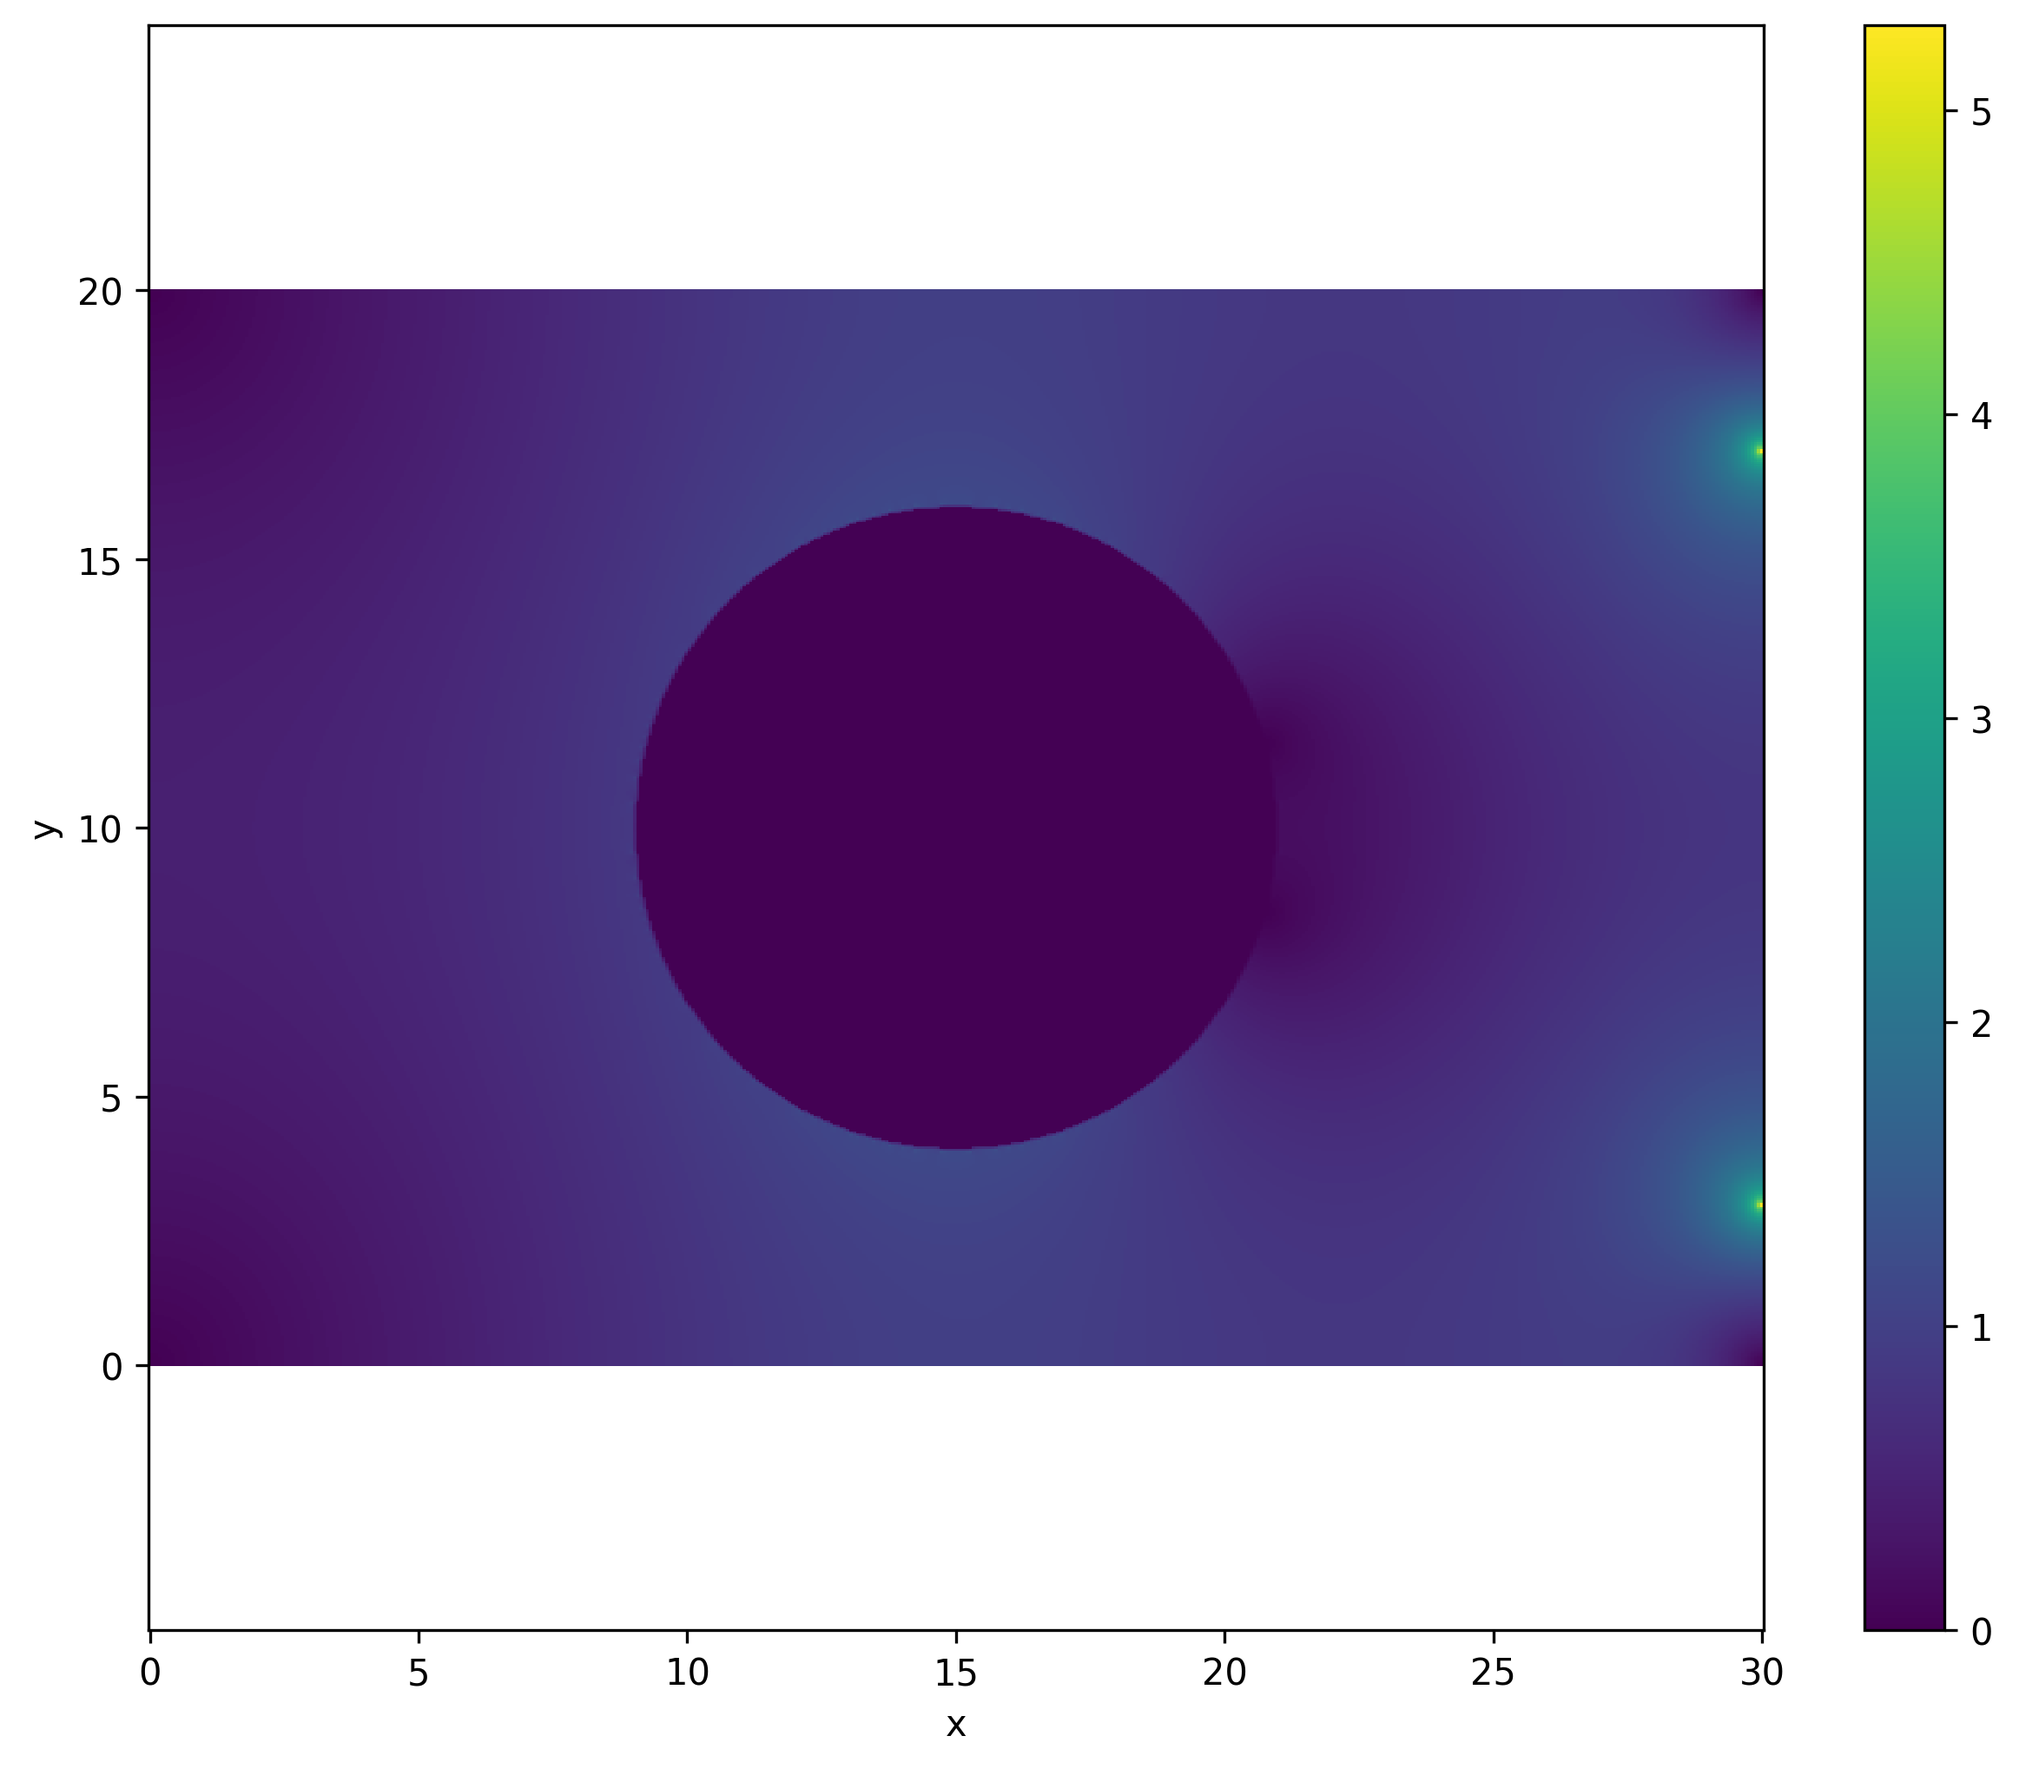
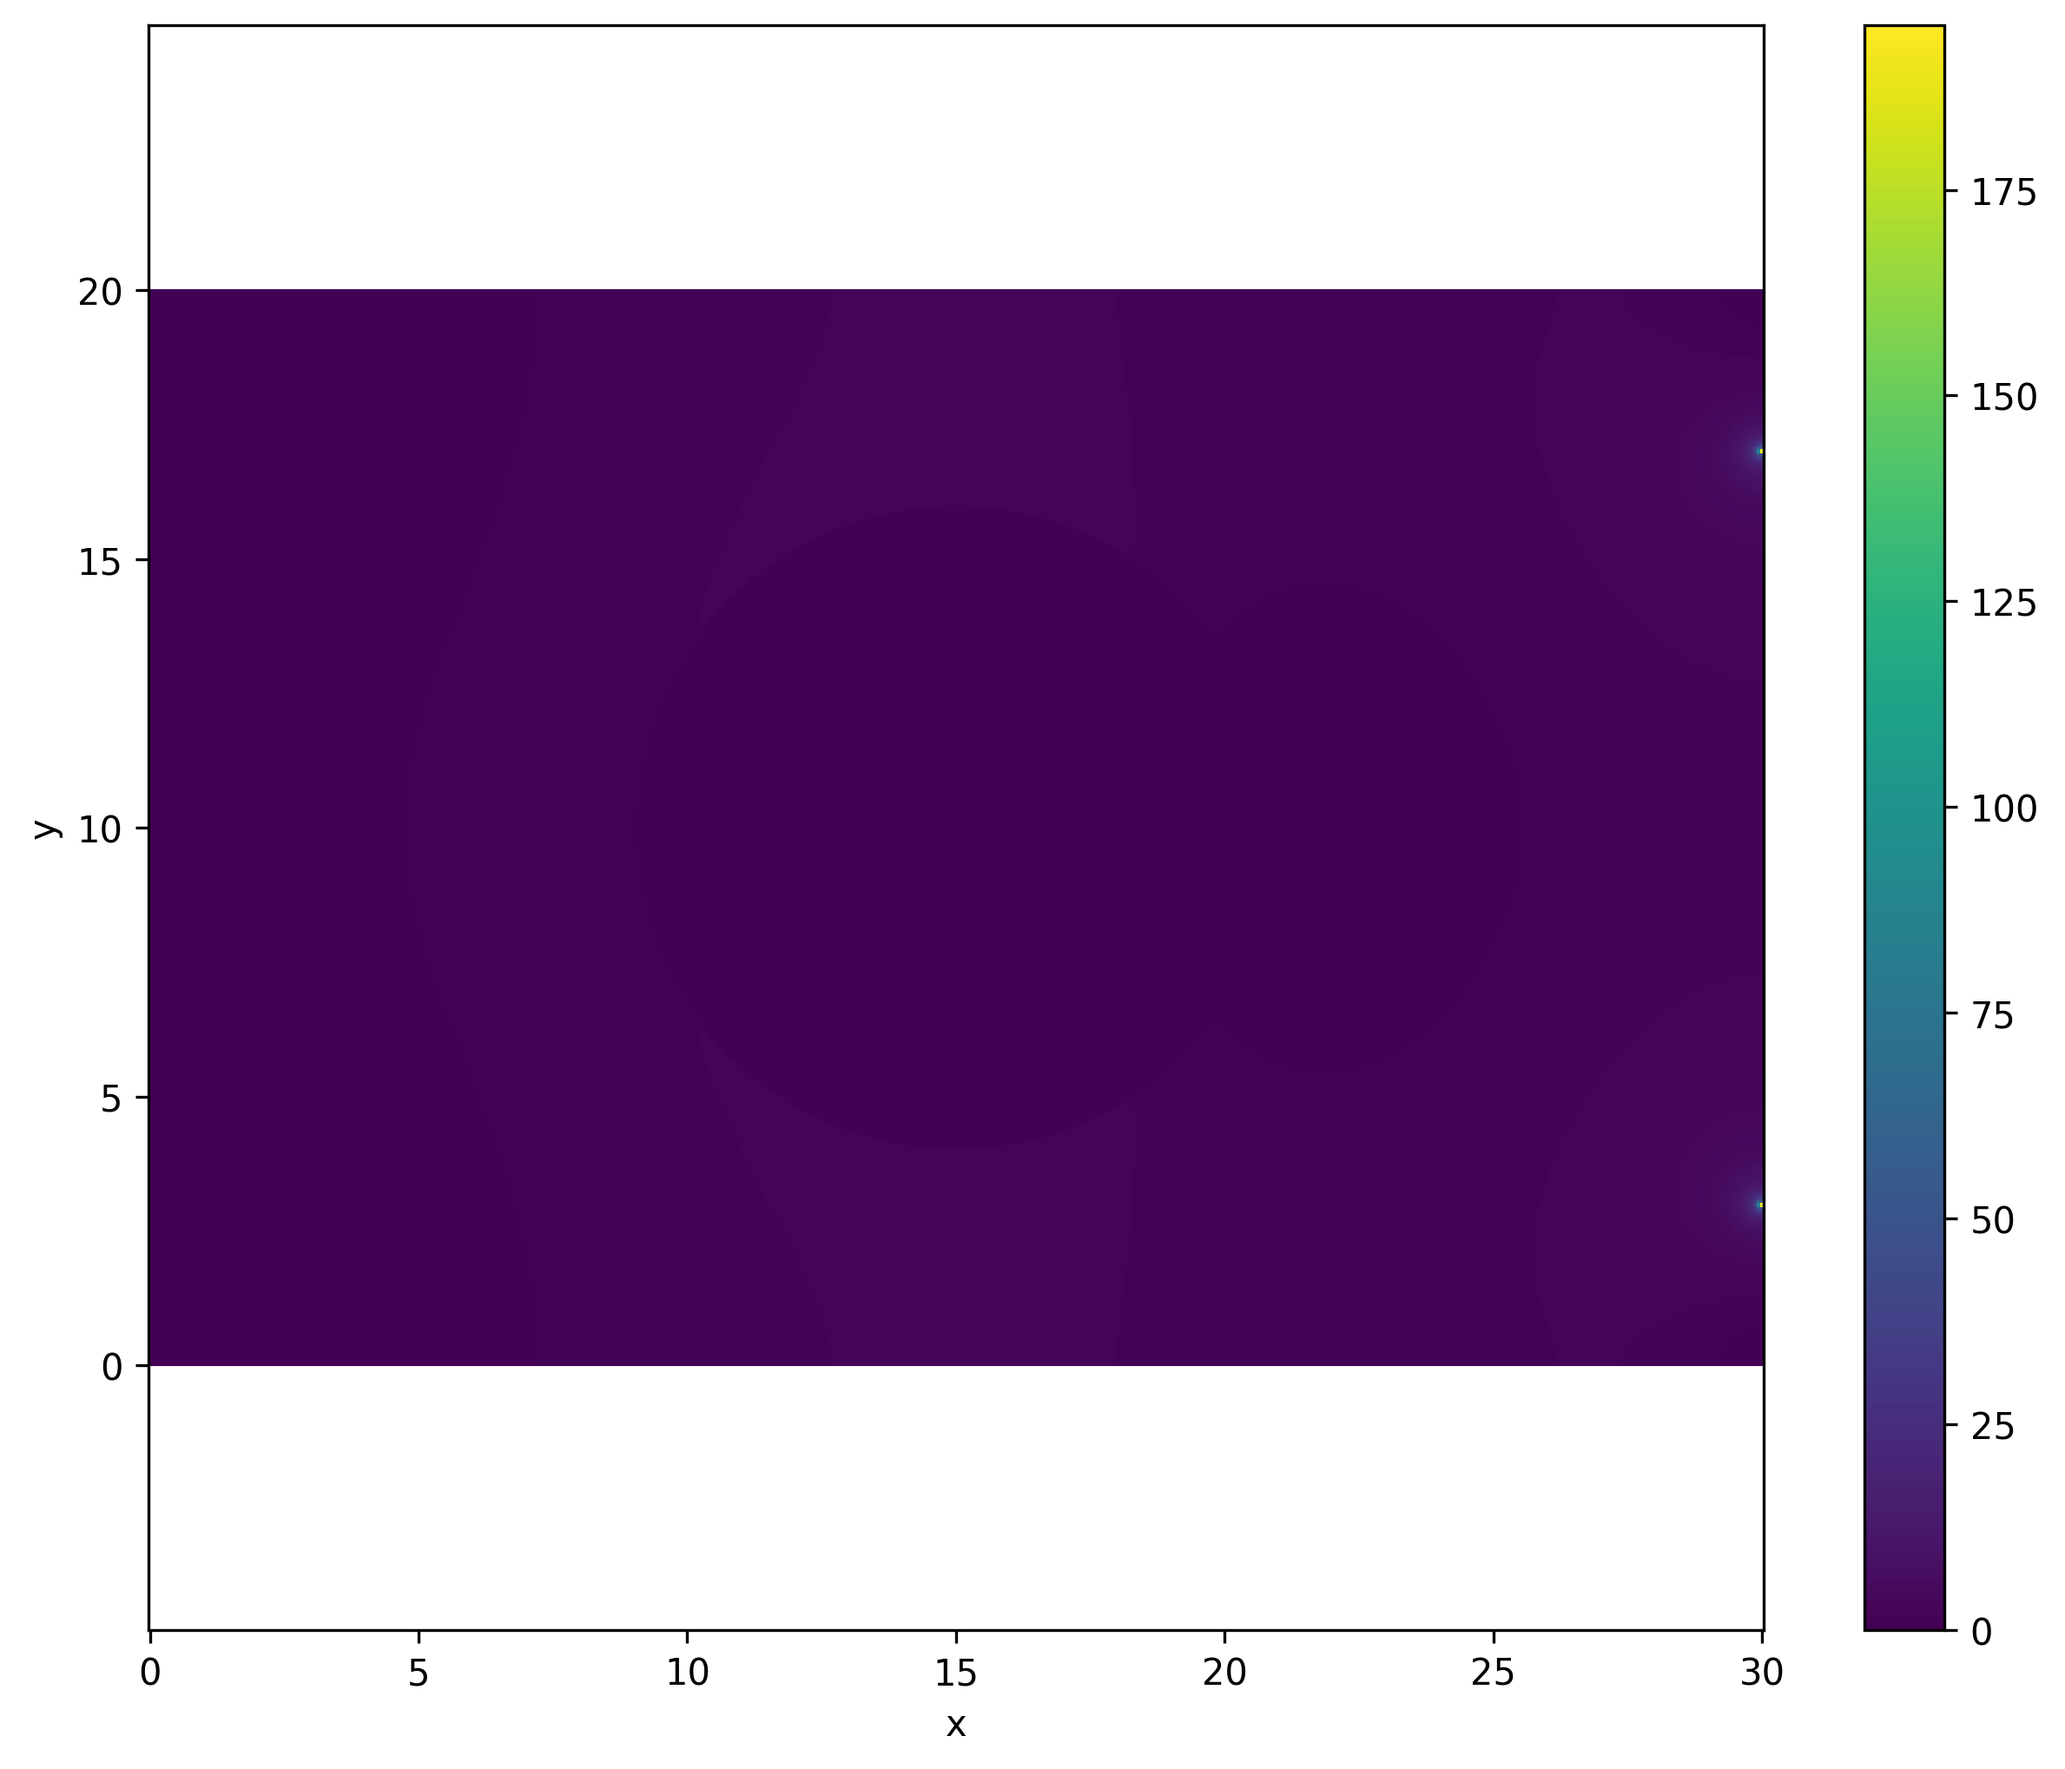
added electric lines plot

diff --git a/server/src/cmd/main.py b/server/src/cmd/main.py
@@ -2,7 +2,7 @@ import os
 from typing import Callable, List, Tuple
 
 import numpy as np
-from libs.computations.gradient import gradient, gradient_magnitude
+from libs.computations.gradient import gradient, gradient_magnitude, gradient_vectors
 from libs.computations.laplace import (
     BoundaryCondition1D,
     BoundaryConditionData,
@@ -151,6 +151,19 @@ def __apply_electrodes_potential(x: float, y: float, shape: Shape, electric_fiel
 
     return 0 + (x / 100) * electric_field_value
 
+def __save_electric_lines_plot(potential, width: float, height: float, filename: str):
+    os.makedirs(os.path.dirname(filename), exist_ok=True)
+
+    Ex, Ey = gradient_vectors(potential, width / NX, height / NY)
+    x_grid = np.linspace(0, width, NX)
+    y_grid = np.linspace(0, height, NY)
+
+    X, Y = np.meshgrid(x_grid, y_grid)
+    plt.figure(figsize=(25, 17.5))
+
+    plt.streamplot(X, Y, Ex, Ey, color="red", density=2.5, linewidth=1)
+    plt.contour(X, Y, potential, levels=20, colors="gray")
+    plt.savefig(filename, bbox_inches="tight", dpi=300)
 
 def __save_heatmap(data: NDArray[np.float64], partition: DiscretePlanePartition, filename: str):
     """
@@ -240,7 +253,15 @@ def main() -> None:
         )
 
         # Calculate electric field
-        electric_field = np.log1p(gradient_magnitude(u, partition.dx, partition.dy))
+        electric_field = gradient_magnitude(u, partition.dx, partition.dy)
+
+        __save_electric_lines_plot(
+            potential=u,
+            width=30,
+            height=20,
+            filename=f"{IMAGES_DIR}/{approach_name}/potential_lines.png"
+        )
+
         __save_heatmap(
             electric_field,
             partition=partition,
